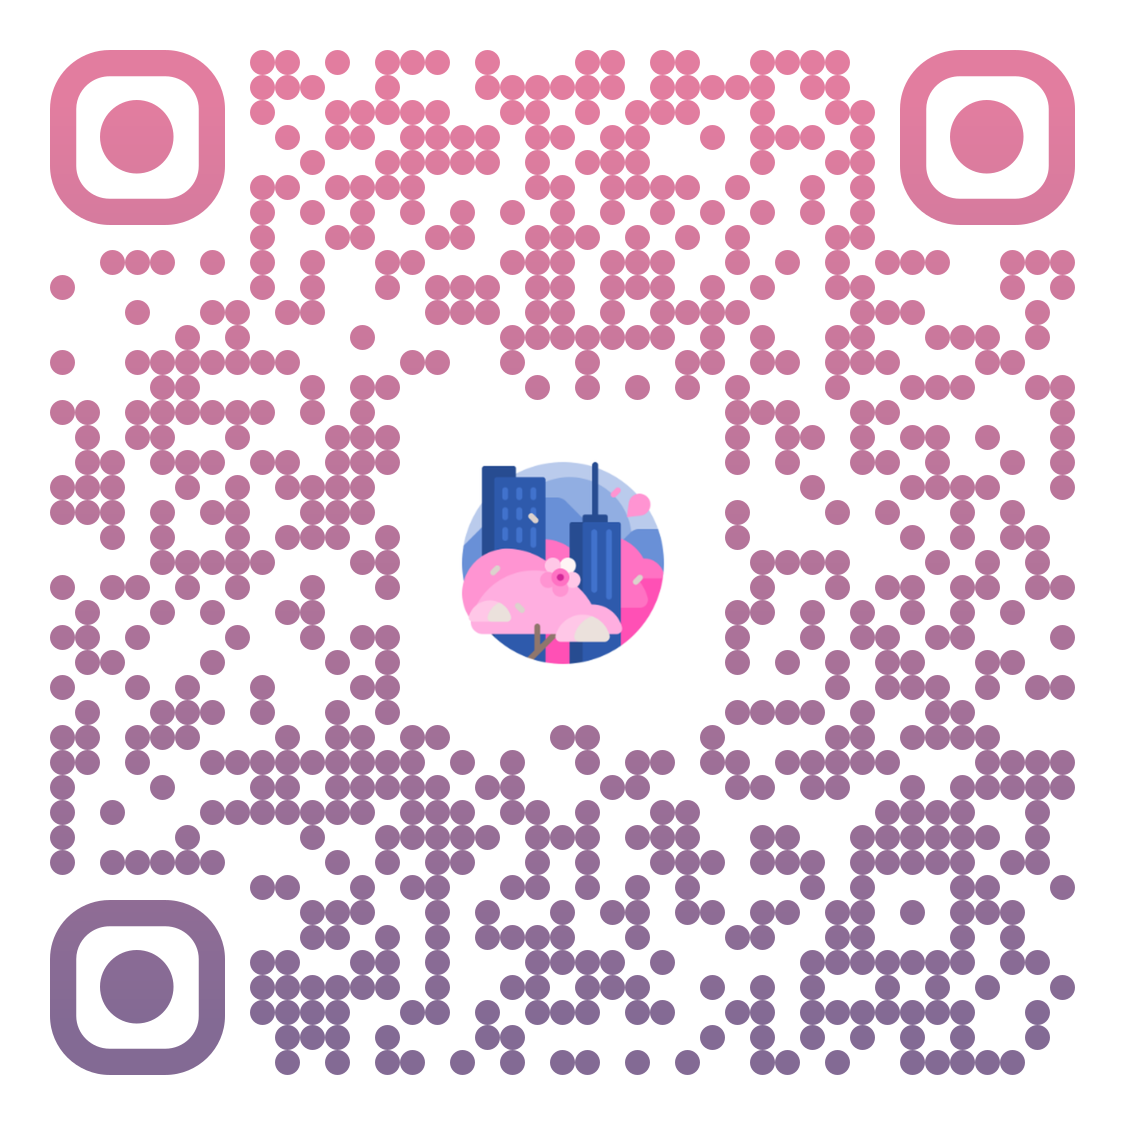
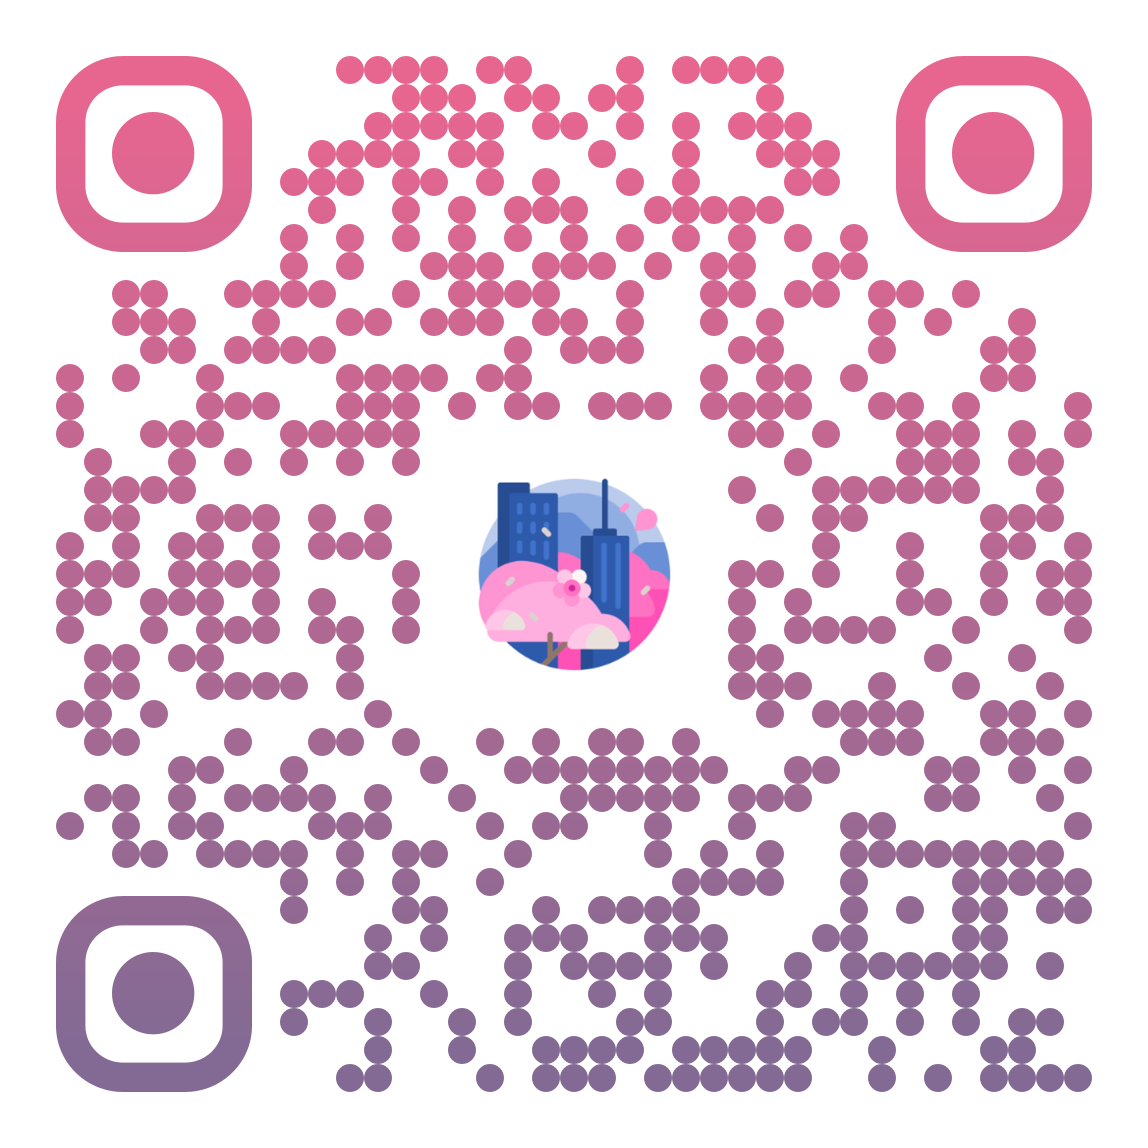
fix url

diff --git a/lib/app/view/download_bottom_sheet.dart b/lib/app/view/download_bottom_sheet.dart
@@ -8,7 +8,7 @@ import '../../config/theme/color.dart';
 
 class DownloadBottomSheet extends StatelessWidget {
   const DownloadBottomSheet({Key? key}) : super(key: key);
-  static var iosUrl = "https://apps.apple.com/us/app/日本薦學/id6449745957";
+  static var iosUrl = "https://testflight.apple.com/join/ZrFsW81j";
   static var androidUrl =
       "https://play.google.com/store/apps/details?id=com.seielika.japan_study_app";
   static var apiSourceUrl = "https://github.com/SeiElikA/japan-study-app-api";
